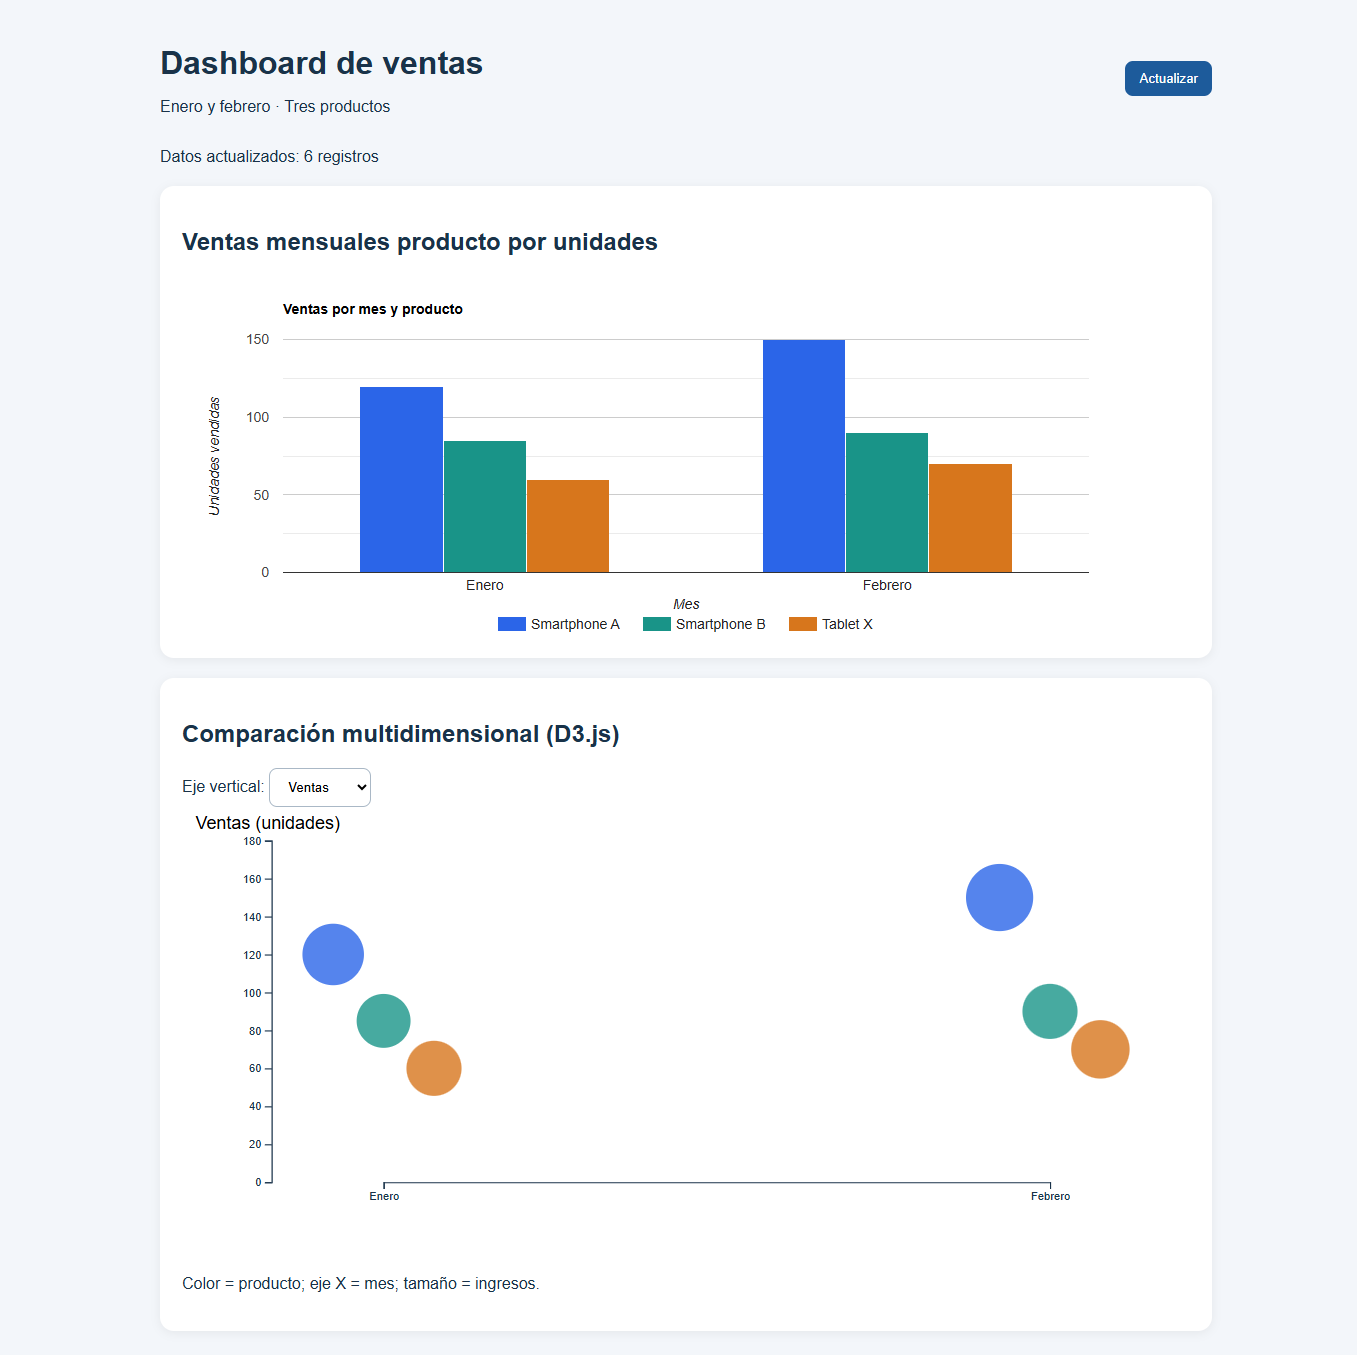
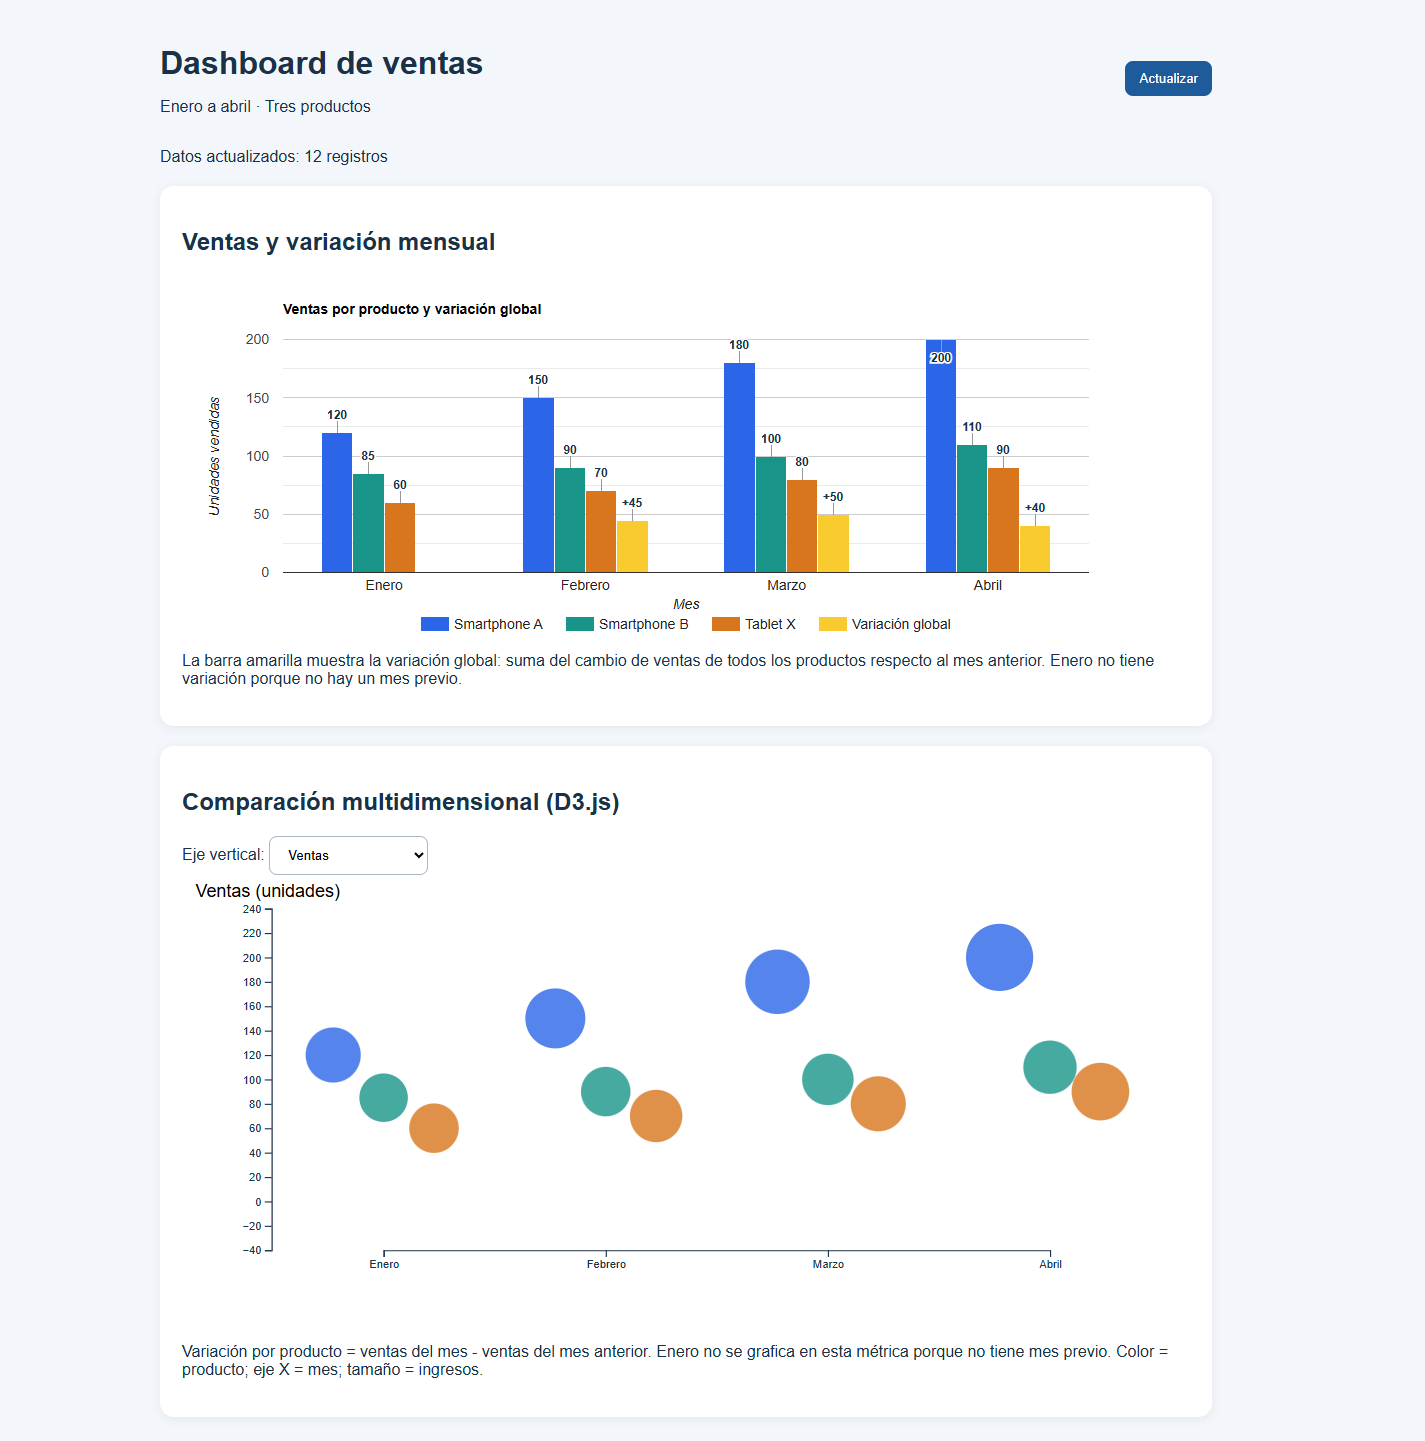
Actualiza dashboard y capturas de ventas

diff --git a/Public/app.js b/Public/app.js
@@ -4,7 +4,7 @@ let metrica = "ventas";
 
 // Catálogos compartidos por las visualizaciones y la escala de colores.
 const productos = ["Smartphone A", "Smartphone B", "Tablet X"];
-const meses = ["Enero", "Febrero"];
+const meses = ["Enero", "Febrero", "Marzo", "Abril"];
 const colores = d3.scaleOrdinal()
   .domain(productos).range(["#2563eb", "#0d9488", "#d97706"]);
 // Espera la carga de Google Charts antes de intentar dibujar el gráfico.
@@ -21,26 +21,59 @@ async function cargarDatos() {
   if (!Array.isArray(datos)) throw new Error("JSON no es una lista");
   return datos;
 }
+
+function agregarVariaciones(datos) {
+  return datos.map(registro => {
+    const indiceMes = meses.indexOf(registro.mes);
+    const anterior = indiceMes > 0
+      ? datos.find(d => d.producto === registro.producto &&
+        d.mes === meses[indiceMes - 1])
+      : null;
+    return {
+      ...registro,
+      variacion: anterior
+        ? Number(registro.ventas) - Number(anterior.ventas)
+        : null
+    };
+  });
+}
  
-// Agrupa los registros por mes y crea el gráfico de columnas de Google Charts.
+// Dibuja ventas por producto y una sola barra amarilla de variación global.
 function dibujarGoogle() {
-  const filas = meses.map(mes => [
-    mes,
-    ...productos.map(producto => {
+  const tabla = new google.visualization.DataTable();
+  tabla.addColumn("string", "Mes");
+  productos.forEach(producto => {
+    tabla.addColumn("number", producto);
+    tabla.addColumn({ type: "string", role: "annotation" });
+  });
+  tabla.addColumn("number", "Variación global");
+  tabla.addColumn({ type: "string", role: "annotation" });
+  const filas = meses.map(mes => {
+    const ventas = productos.map(producto => {
       const item = registros.find(d =>
         d.mes === mes && d.producto === producto);
-      return item ? Number(item.ventas) : 0;
-    })
-  ]);
-  const tabla = google.visualization.arrayToDataTable([
-    ["Mes", ...productos], ...filas
-  ]);
+      return item ? [Number(item.ventas), String(item.ventas)] : [null, null];
+    });
+    const variacionGlobal = mes === meses[0] ? null :
+      registros.filter(d => d.mes === mes)
+        .reduce((total, d) => total + (Number(d.variacion) || 0), 0);
+    const etiquetaVariacion = variacionGlobal === null
+      ? null
+      : `${variacionGlobal > 0 ? "+" : ""}${variacionGlobal}`;
+    return [mes, ...ventas.flat(), variacionGlobal, etiquetaVariacion];
+  });
+  tabla.addRows(filas);
   const grafico = new google.visualization.ColumnChart(
     document.getElementById("graficoGoogle"));
   grafico.draw(tabla, {
-    title: "Ventas por mes y producto",
+    title: "Ventas por producto y variación global",
     legend: { position: "bottom" },
-    colors: productos.map(p => colores(p)),
+    colors: [...productos.map(producto => colores(producto)),
+      "#facc15"],
+    annotations: {
+      alwaysOutside: true,
+      textStyle: { color: "#18324a", fontSize: 12, bold: true }
+    },
     height: 360,
     chartArea: { width: "80%", height: "65%" },
     vAxis: { title: "Unidades vendidas", minValue: 0 },
@@ -55,8 +88,18 @@ function dibujarD3() {
   const margen = { top: 30, right: 25, bottom: 65, left: 80 };
   const x = d3.scalePoint().domain(meses)
     .range([margen.left + 100, ancho - margen.right - 100]);
-  const maxY = d3.max(registros, d => Number(d[metrica])) || 1;
-  const y = d3.scaleLinear().domain([0, maxY * 1.2])
+  const registrosVisibles = metrica === "variacion"
+    ? registros.filter(d => d.variacion !== null)
+    : registros;
+  const valoresY = registrosVisibles.map(d => Number(d[metrica]));
+  const minY = metrica === "variacion"
+    ? Math.min(0, d3.min(valoresY) || 0)
+    : 0;
+  const maxY = Math.max(0, d3.max(valoresY) || 0);
+  const margenY = metrica === "variacion"
+    ? (maxY - minY || 1) * 0.15
+    : (maxY || 1) * 0.2;
+  const y = d3.scaleLinear().domain([minY - margenY, maxY + margenY])
     .range([alto - margen.bottom, margen.top]);
 
   // El radio representa ingresos aunque el usuario cambie la métrica del eje Y.
@@ -67,6 +110,13 @@ function dibujarD3() {
     .data([null]).join("svg")
     .attr("viewBox", `0 0 ${ancho} ${alto}`)
     .style("width", "100%").style("height", "auto");
+  svg.selectAll(".lineaCero")
+    .data(metrica === "variacion" ? [null] : [])
+    .join("line")
+    .attr("class", "lineaCero")
+    .attr("x1", margen.left).attr("x2", ancho - margen.right)
+    .attr("y1", y(0)).attr("y2", y(0))
+    .attr("stroke", "#94a3b8").attr("stroke-dasharray", "4 4");
   svg.selectAll(".ejeX").data([null]).join("g")
     .attr("class", "ejeX")
     .attr("transform", `translate(0,${alto - margen.bottom})`)
@@ -77,7 +127,11 @@ function dibujarD3() {
     .transition().duration(600).call(d3.axisLeft(y));
   svg.selectAll(".tituloY").data([null]).join("text")
     .attr("class", "tituloY").attr("x", 12).attr("y", 20)
-    .text(metrica === "ventas" ? "Ventas (unidades)" : "Ingresos");
+    .text({
+      ventas: "Ventas (unidades)",
+      ingresos: "Ingresos",
+      variacion: "Variación mensual (unidades)"
+    }[metrica]);
 
   // Reutiliza un único tooltip y separa los productos del mismo mes.
   const tooltip = d3.select("body").selectAll(".tooltip")
@@ -85,7 +139,7 @@ function dibujarD3() {
   const desplazamiento = { "Smartphone A": -45,
     "Smartphone B": 0, "Tablet X": 45 };
   const burbujas = svg.selectAll("circle.burbuja")
-    .data(registros, d => `${d.producto}-${d.mes}`);
+    .data(registrosVisibles, d => `${d.producto}-${d.mes}`);
 
   // Conserva las burbujas existentes y anima las que entran, cambian o salen.
   burbujas.join(
@@ -98,10 +152,13 @@ function dibujarD3() {
   ).on("mouseover", function(event, d) {
     // Resalta el punto y presenta los detalles del registro seleccionado.
     d3.select(this).attr("stroke", "#172b43").attr("stroke-width", 2);
+    const variacion = d.variacion === null
+      ? "Sin mes anterior"
+      : `${d.variacion > 0 ? "+" : ""}${d.variacion}`;
     tooltip.style("opacity", 1)
       .html(`<strong>${d.producto}</strong><br>${d.mes}<br>` +
         `Ventas: ${d.ventas}<br>Ingresos: ${d.ingresos}<br>` +
-        `Precio: ${d.precio}`);
+        `Variación: ${variacion}<br>Precio: ${d.precio}`);
   }).on("mousemove", function(event) {
     tooltip.style("left", (event.pageX + 12) + "px")
       .style("top", (event.pageY - 25) + "px");
@@ -127,7 +184,7 @@ async function actualizar() {
   estado.textContent = "Actualizando datos…";
   try {
     await chartsListos;
-    registros = await cargarDatos();
+    registros = agregarVariaciones(await cargarDatos());
     dibujarGoogle();
     dibujarD3();
     estado.textContent = `Datos actualizados: ${registros.length} registros`;

diff --git a/Public/index.html b/Public/index.html
@@ -14,17 +14,20 @@
     <!-- Título del proyecto y control para volver a cargar las ventas. -->
     <header>
       <div><h1>Dashboard de ventas</h1>
-      <p>Enero y febrero · Tres productos</p></div>
+      <p>Enero a abril · Tres productos</p></div>
       <button id="actualizar">Actualizar</button>
     </header>
 
     <!-- Región accesible que informa de la carga, errores y selecciones. -->
     <p id="estado" role="status">Cargando datos…</p>
 
-    <!-- Google Charts compara las unidades vendidas por producto y mes. -->
+    <!-- Google Charts compara ventas por mes y producto. -->
     <section class="panel">
-      <h2>Ventas mensuales producto por unidades</h2>
-      <div id="graficoGoogle" aria-label="Gráfico de ventas"></div>
+      <h2>Ventas y variación mensual</h2>
+      <div id="graficoGoogle" aria-label="Gráfico de ventas y variación"></div>
+      <p>La barra amarilla muestra la variación global: suma del cambio de
+        ventas de todos los productos respecto al mes anterior. Enero no tiene
+        variación porque no hay un mes previo.</p>
     </section>
 
     <!-- D3.js presenta cada registro como una burbuja interactiva. -->
@@ -34,9 +37,12 @@
       <select id="metrica">
         <option value="ventas">Ventas</option>
         <option value="ingresos">Ingresos</option>
+        <option value="variacion">Variación mensual</option>
       </select>
       <div id="graficoD3"></div>
-      <p>Color = producto; eje X = mes; tamaño = ingresos.</p>
+      <p>Variación por producto = ventas del mes - ventas del mes anterior.
+        Enero no se grafica en esta métrica porque no tiene mes previo.
+        Color = producto; eje X = mes; tamaño = ingresos.</p>
     </section>
   </main>
 </body>

diff --git a/README.md b/README.md
@@ -1,14 +1,16 @@
 # Dashboard Ventas
 
 Aplicación web personal para visualizar y comparar las ventas de tres productos
-durante enero y febrero. Incluye gráficos interactivos basados en Google Charts
-y D3.js, y carga los datos de ejemplo desde un archivo JSON.
+durante enero, febrero, marzo y abril. Incluye gráficos interactivos basados en
+Google Charts y D3.js, y carga los datos de ejemplo desde un archivo JSON.
 
 **Repositorio:** [Mijarex/Dashboard-ventas-D3.JS](https://github.com/Mijarex/Dashboard-ventas-D3.JS)
 
 ## Funcionalidades
 
 - Compara las unidades vendidas de cada producto en un gráfico de columnas.
+- Muestra en amarillo la variación global de ventas frente al mes anterior,
+  con etiquetas en las barras.
 - Explora las ventas e ingresos mensuales mediante un gráfico de burbujas.
 - Cambia la métrica del eje vertical entre unidades vendidas e ingresos.
 - Consulta el detalle de un registro al pasar el puntero sobre su burbuja.
@@ -19,7 +21,8 @@ y D3.js, y carga los datos de ejemplo desde un archivo JSON.
 ## Capturas del dashboard en ejecución
 
 Resultados obtenidos al ejecutar la aplicación en `http://localhost:3001` con
-los seis registros incluidos en `Public/ventas.json`.
+los doce registros incluidos en `Public/ventas.json`. Las capturas muestran
+enero a abril y las etiquetas de ventas y variación global.
 
 **Ventas como métrica vertical**
 
@@ -79,8 +82,8 @@ npm start
 
 ## Datos de ejemplo
 
-Los registros están en [`Public/ventas.json`](Public/ventas.json). Cada objeto
-representa las ventas de un producto en un mes y contiene:
+Los doce registros están en [`Public/ventas.json`](Public/ventas.json). Cada
+objeto representa las ventas de un producto en un mes y contiene:
 
 | Campo | Descripción |
 | --- | --- |
